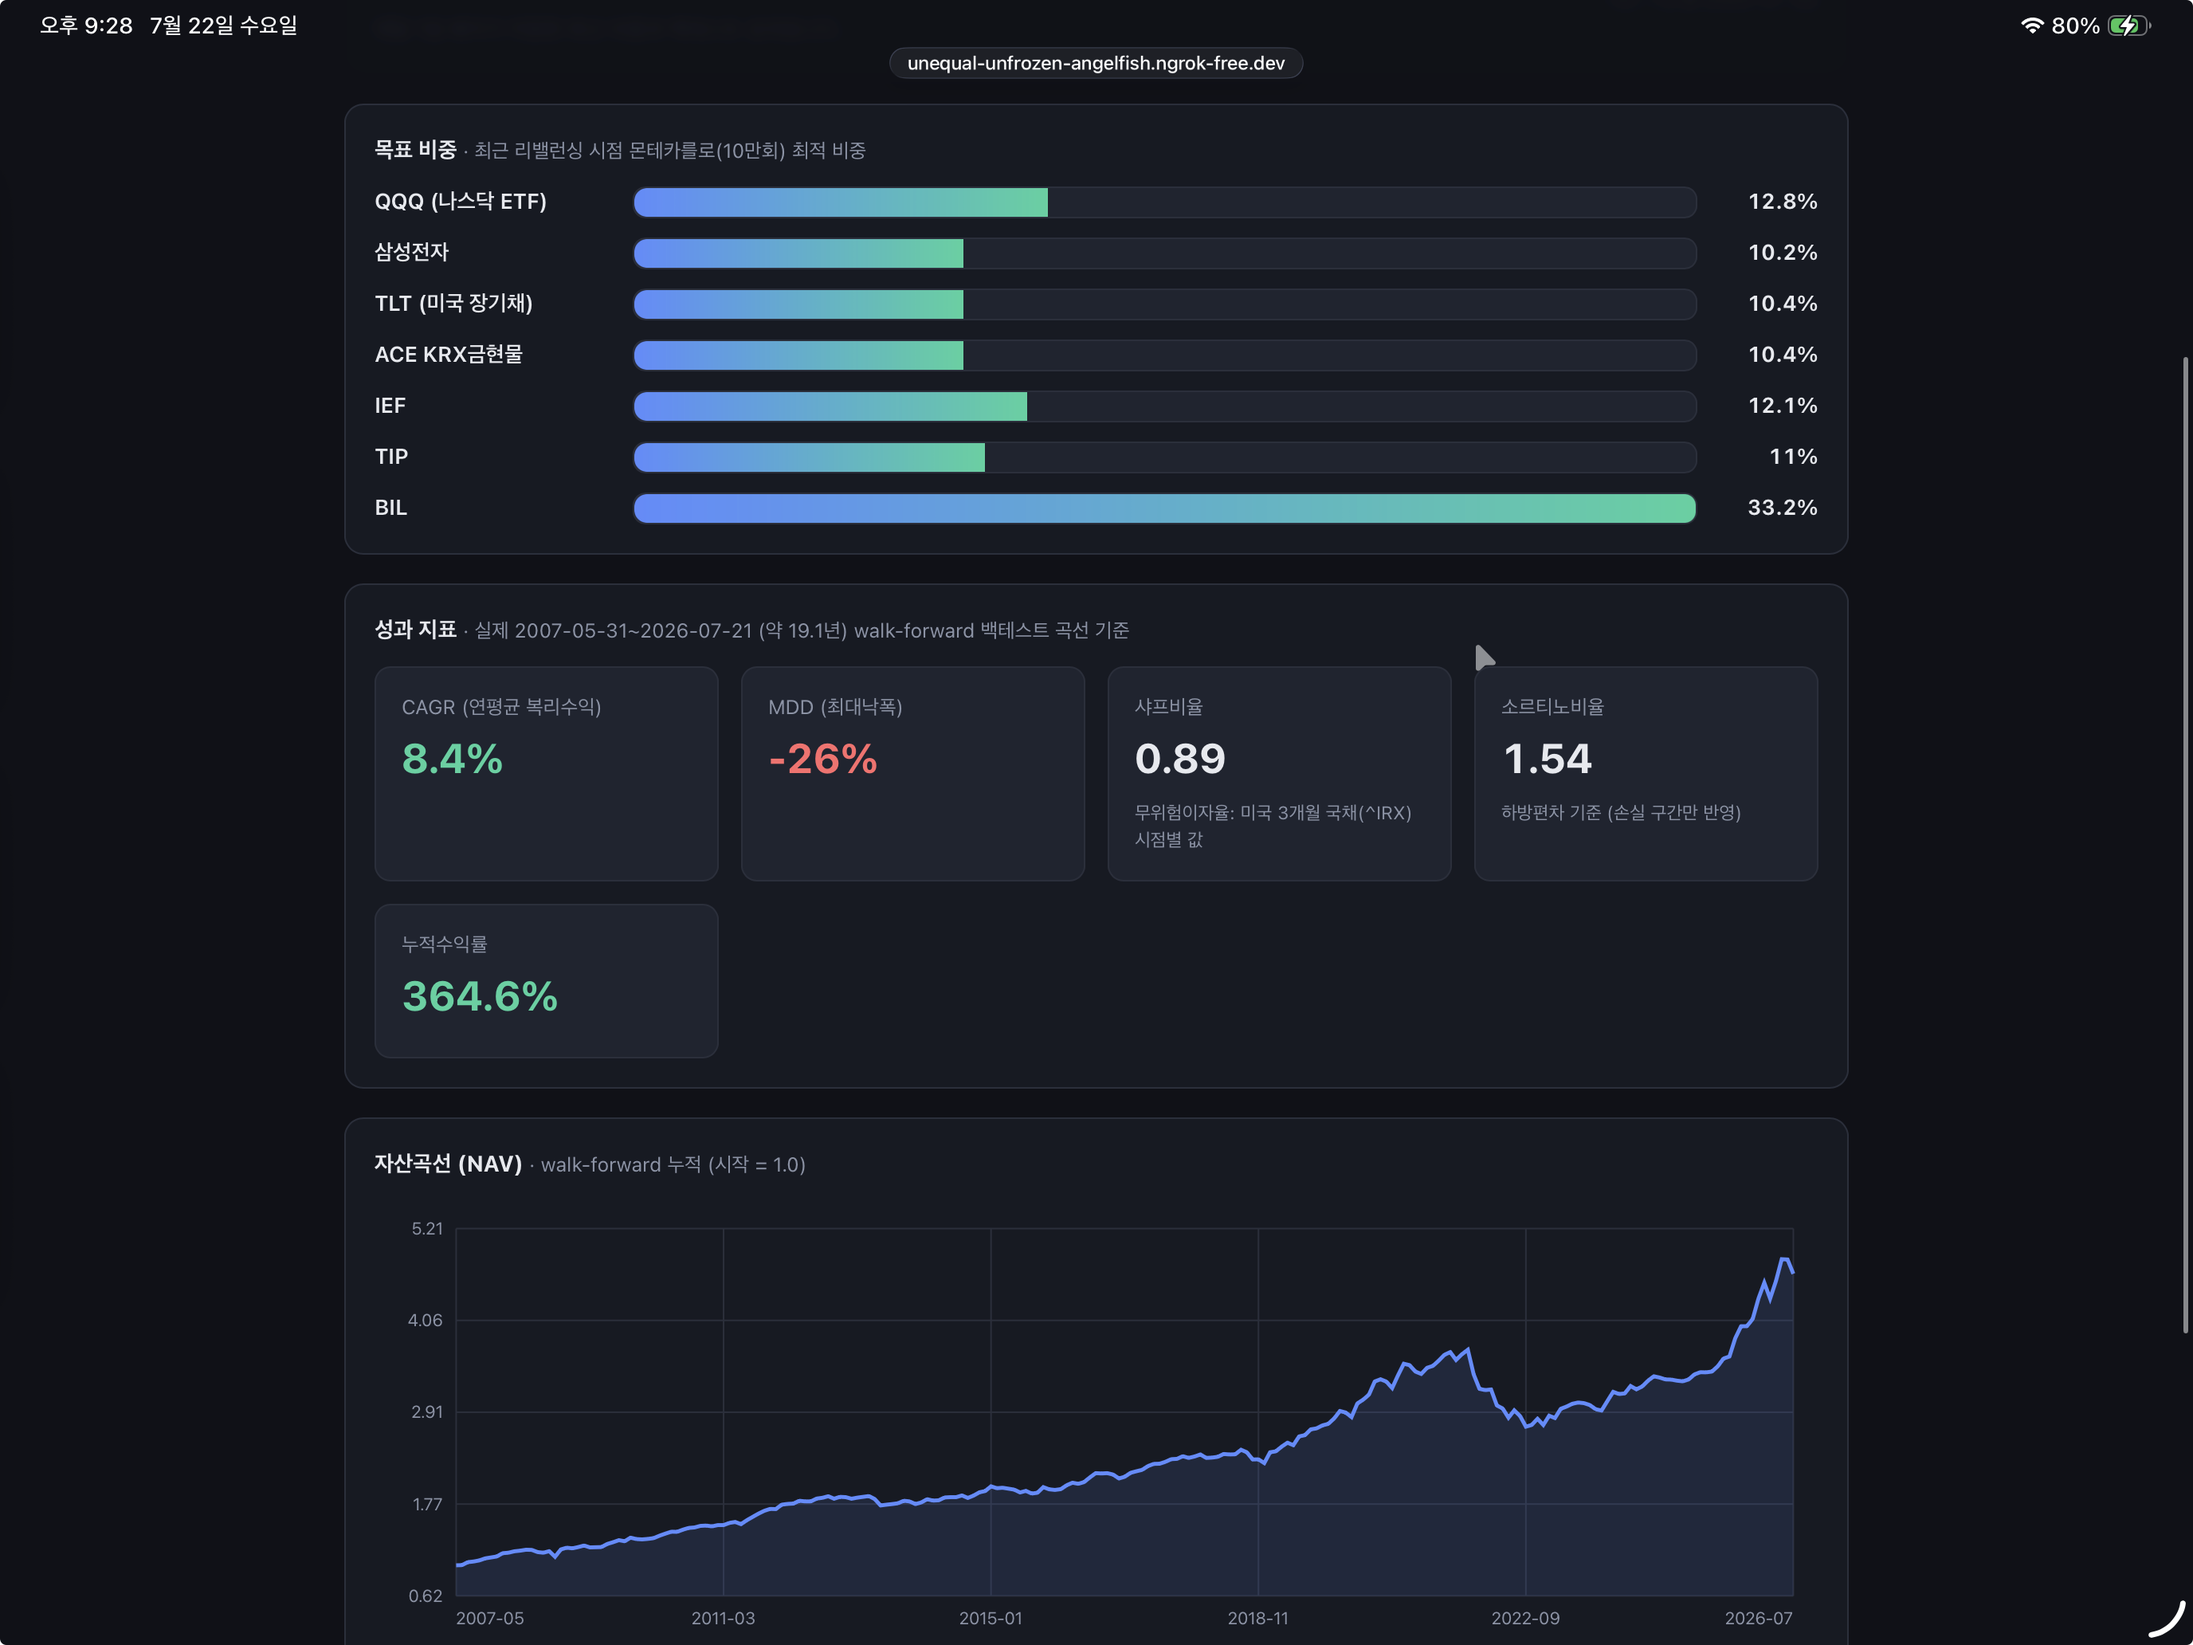
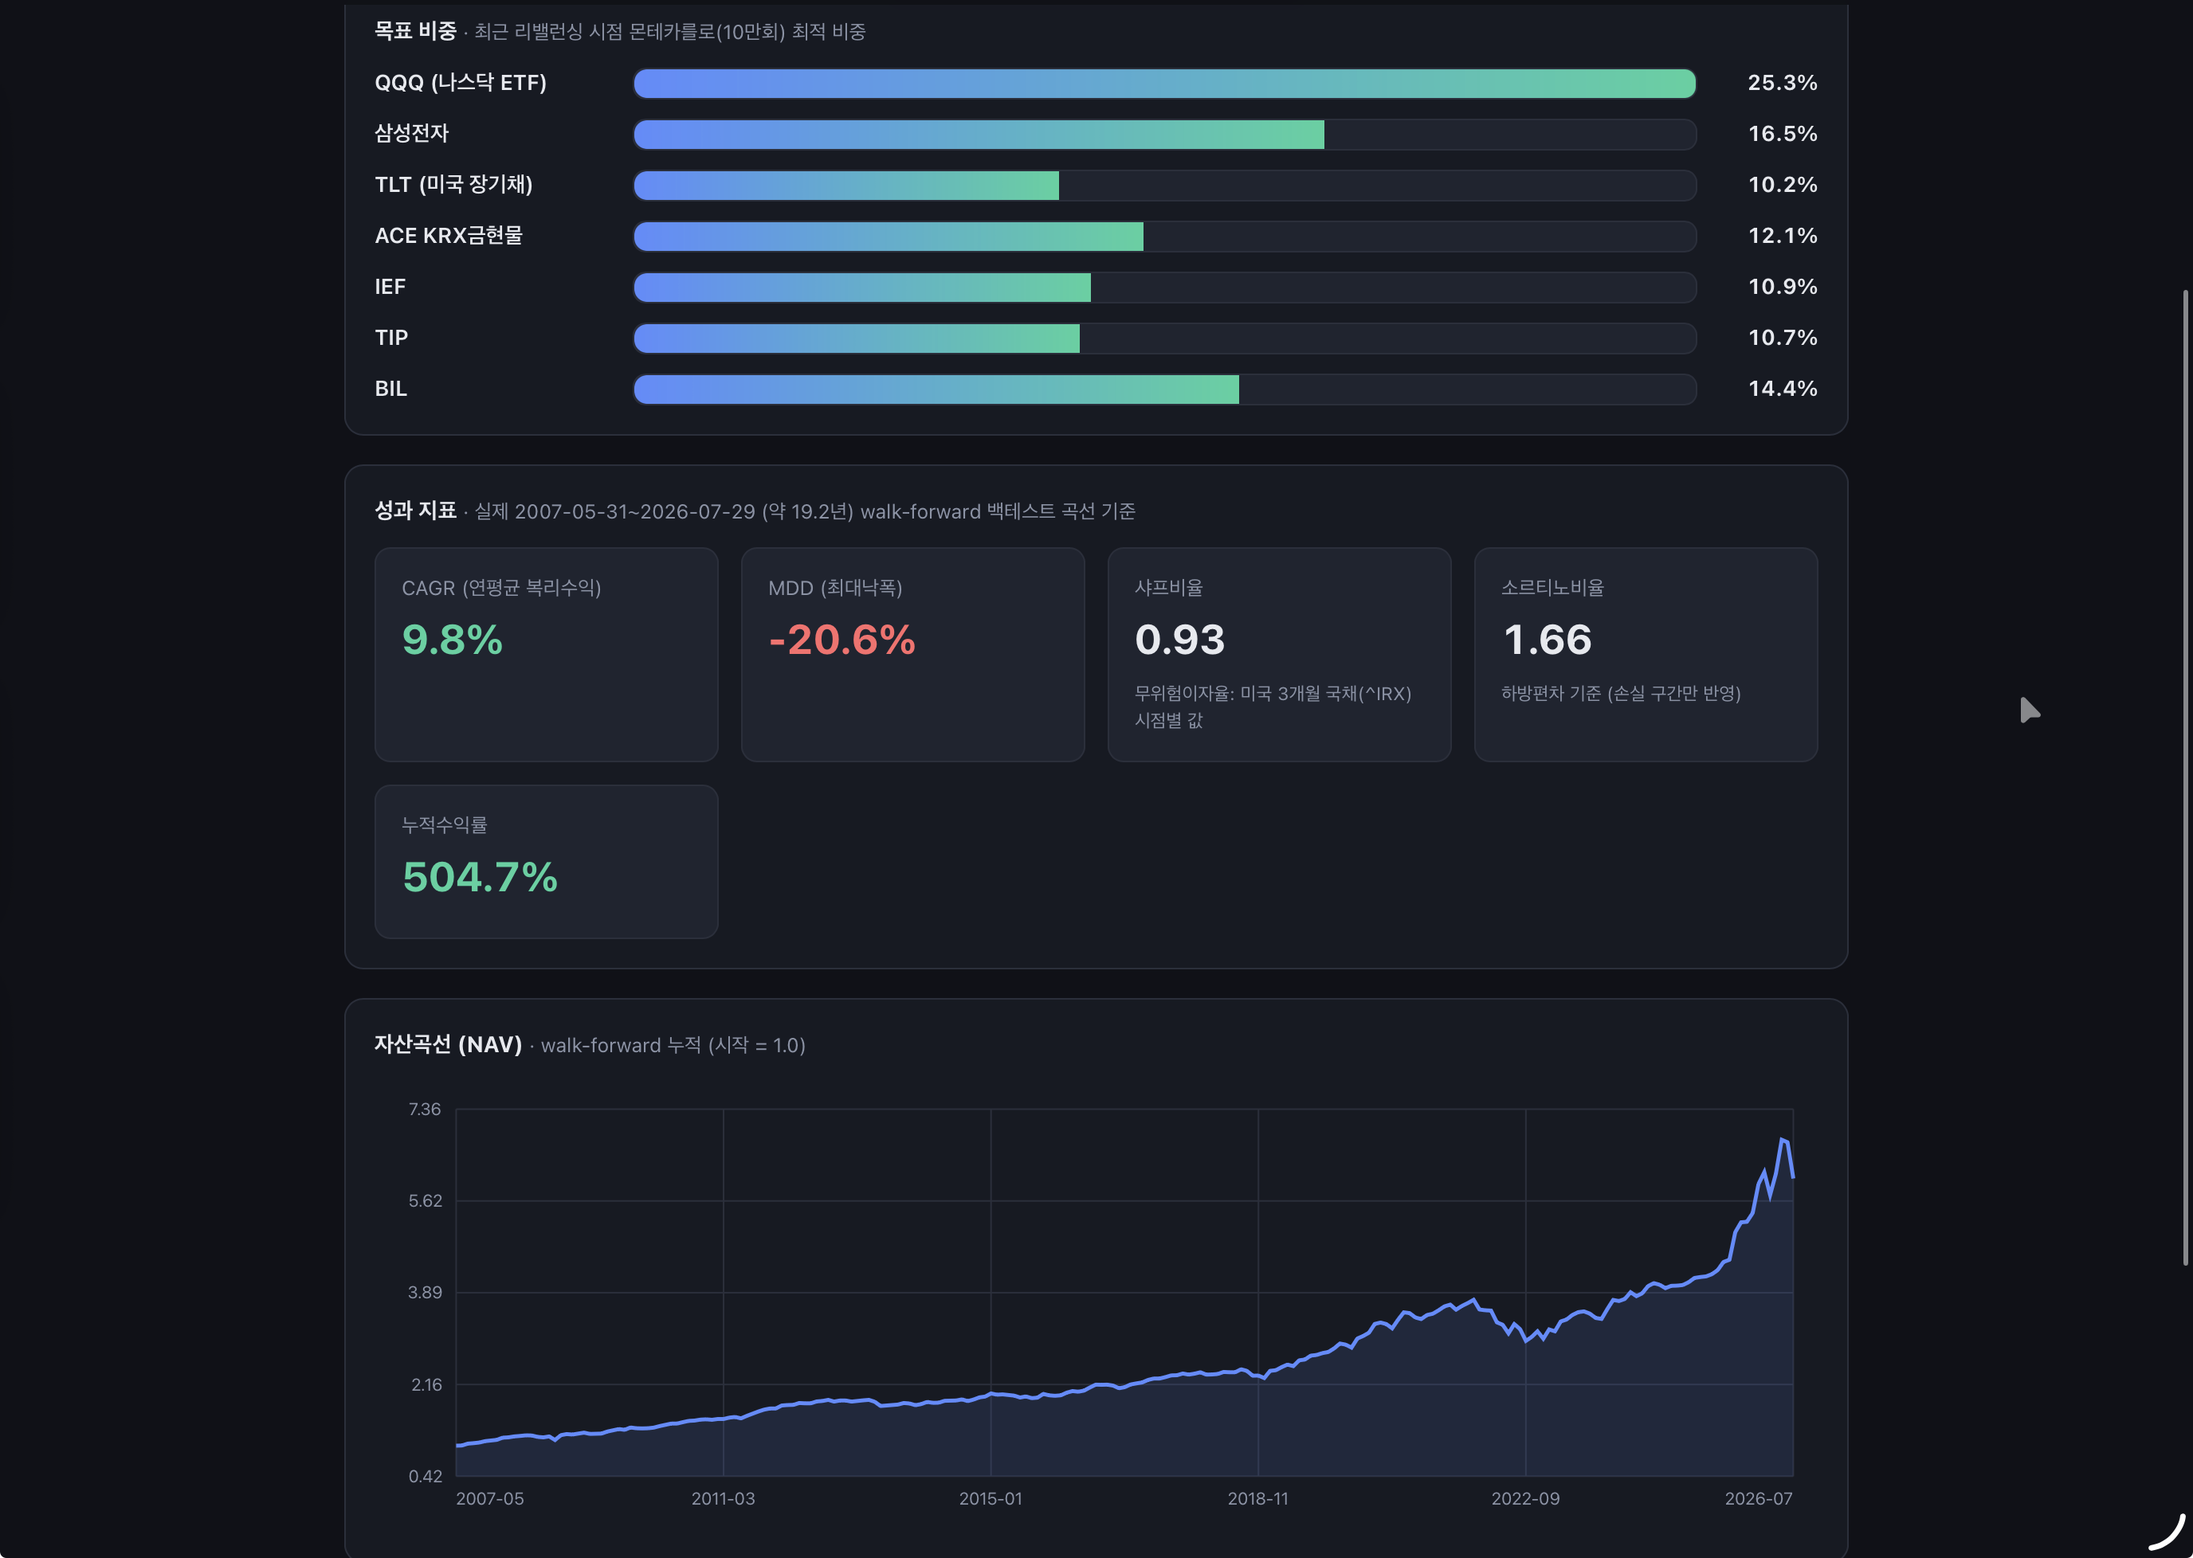
docs: 올웨더 포트폴리오 스크린샷 갱신 + 금현물 스케일 보정 설명 추가 금현물 합성가격 스플라이스 보정(직전 커밋) 반영 후 재계산한 최신 화면으로 스크린샷을 교체하고, "가격 데이터 확보" 절에 스플라이스 경계 레벨 불일치(약 19.8배)와 보정 방식을 설명하는 문단을 추가했다.

diff --git a/README.md b/README.md
@@ -609,7 +609,13 @@ BIL의 상장일이 교집합 시작점을 결정합니다, 매달 배치가 돌
   (달러 표시 실물담보 금ETF, 2004-11~)×`USDKRW=X`(원/달러 환율, 2003-12~)로 만든
   합성 원화금가격으로 과거를 채우고, 411060.KS 실데이터가 존재하는 구간(2021-12-15~)은
   항상 진짜 시세로 이어붙입니다(`data.py::build_synthetic_krx_gold_series`) — 최근·
-  실보유 구간은 항상 진짜 데이터가 우선입니다.
+  실보유 구간은 항상 진짜 데이터가 우선입니다. GLD 1주와 411060.KS 1주가 담는 금의
+  양(단위)이 서로 달라 단순히 이어붙이기만 하면 스플라이스 시점의 레벨이 실측상 약
+  19.8배 어긋나(하루 만에 -95%로 보이는 가짜 폭락) `pct_change` 기반 계산
+  (`montecarlo.py`의 공분산·수익률, `backtest.py`의 리밸런싱 실현수익률)을 오염시킵니다.
+  그래서 실데이터 시작 직전 합성값 대비 실데이터 첫 값의 비율(scale)을 구해 합성
+  구간 전체에 곱해 레벨을 맞춥니다 — 상수를 곱하는 것이므로 합성 구간 내부의 일별
+  수익률(추세)은 그대로 보존됩니다.
 - 무위험이자율은 미국 3개월 국채(`^IRX`)를 리밸런싱 시점별 과거값으로 조회합니다
   (`risk_free_rate_at`, 미래참조 없음).
 
